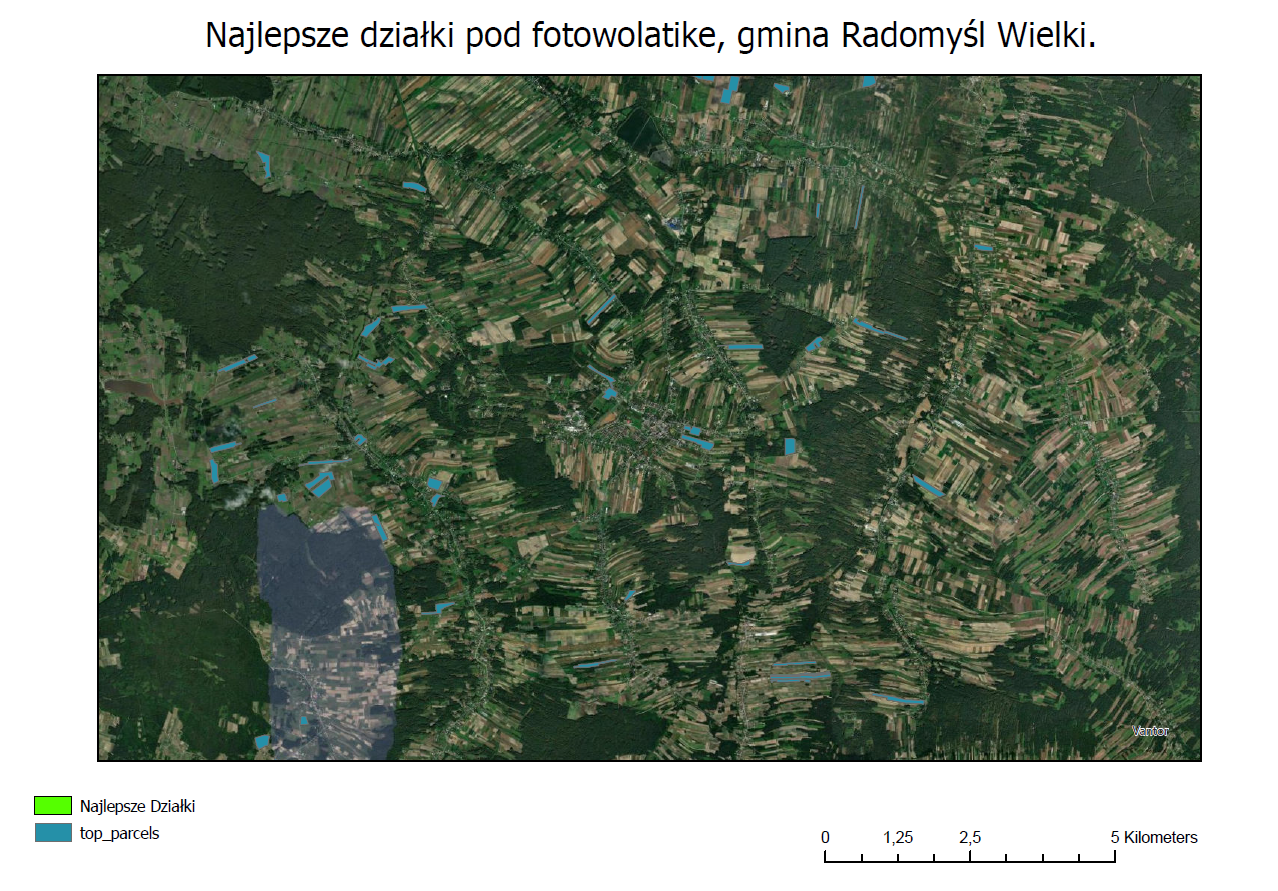
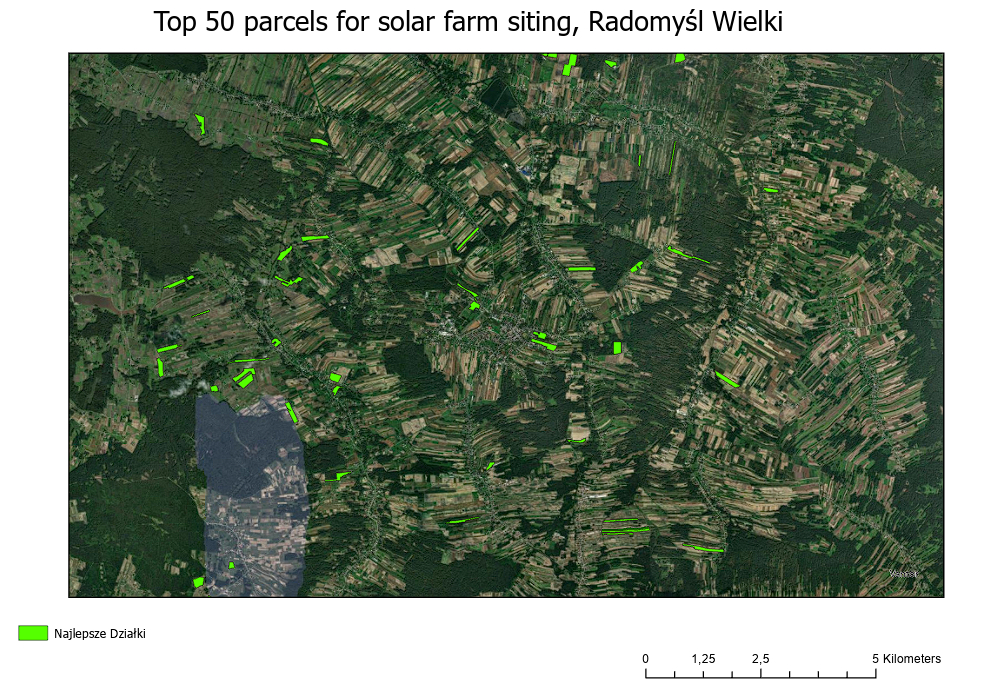
Changes in README

diff --git a/arcgis/01_export_top_parcels.py b/arcgis/01_export_top_parcels.py
@@ -43,7 +43,6 @@ aprx = arcpy.mp.ArcGISProject(APRX_FILE)
 
 map_obj = aprx.listMaps()[0]
 
-map_obj.addDataFromPath(out_path)
 #       layout.exportToPDF(OUT_PDF, resolution=150)
 layout = aprx.listLayouts()[0]
 layout.exportToPDF(OUT_PDF, resolution=150)

diff --git a/README.md b/README.md
@@ -16,7 +16,7 @@ This is a **preliminary, assumption-based site screening**, not an investment as
 |---|---|---|---|
 | Cadastral parcels (EGiB) | Geoportal, "Download data" module, Mielec county | GPKG | state as of 7 Oct 2026; 191,663 parcels in the county, 31,769 in the municipality |
 | BDOT10k | Geoportal, Mielec county | GPKG (one file per object class) | downloaded 14 Oct 2026; 13 of 63 classes imported |
-| Municipality area (check) | [link to the municipal report] | PDF | compared with the sum of parcel areas |
+| Municipality area (check) | [Report on the state of the municipality for 2024](https://www.radomyslwielki.pl/upload/files/rada_miejska/raport_o_stanie_gminy_2024_Aktualny.pdf), section I.1 | PDF | 159.78 km²; compared with the sum of parcel areas | | PDF | compared with the sum of parcel areas |
 
 The data is not stored in the repository (file size). Download it from Geoportal and place it in `data/raw/` (see "How to run").
 
@@ -41,7 +41,7 @@ flowchart LR
 The `dzialki_radomysl` database has two schemas: `raw` (source data, unchanged) and `analysis` (calculation results, reproducible with the scripts). All data uses the EPSG:2180 coordinate system.
 
  
- ![Parcel size distribution](docs/parcels_base_map.png)
+ ![Score map](docs/parcels_base_map.png)
 ## Methodology
 
 ### 1. Land cover classification
@@ -85,9 +85,9 @@ The result is multiplied by **0.7** if a power line crosses the parcel (a restri
 ### Validation
 
 - Row counts in every table match the previous stage (`sql/03`, `08`, `10`, `12`, `14`).
-- A distance measured manually in ArcGIS Pro matches the value calculated in the database 
+- A distance measured manually in ArcGIS Pro matches the value calculated in the database (example: parcel `181108_4.0072.1`, 161.8 m).
 - The score distribution and the line-crossing penalty were checked with validation queries.
-
+- On screen validation pointed parcel is in firs row [161,49m]
 ![Validation in ArcGIS](docs/arc_gis_control.png)
 
 ## How to run
